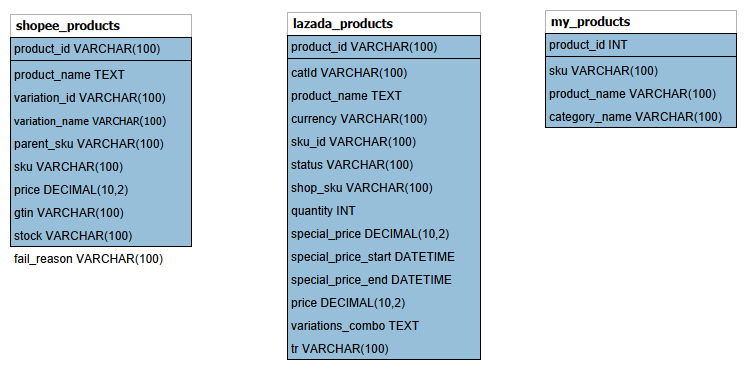
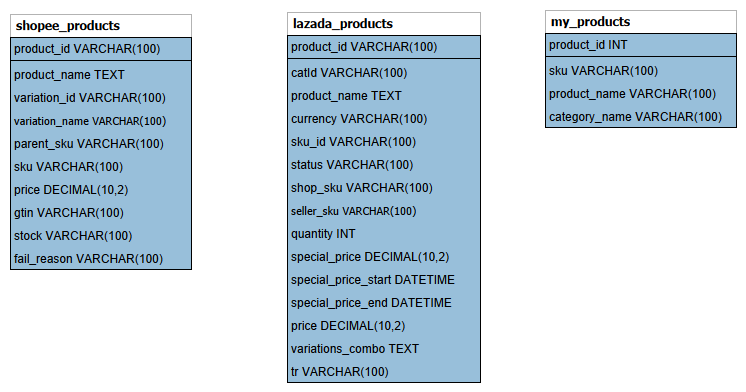
[FIX]: Importing of Lazada Seller SKU

Changed region(s): [[0.37, 0.0298, 0.6475, 0.9837], [0.0, 0.0298, 0.2775, 0.7154], [0.7091, 0.0, 0.9866, 0.3577]]

diff --git a/src/modules/csv/public/csv.js b/src/modules/csv/public/csv.js
@@ -41,18 +41,19 @@
             fields: {
                 product_id: ["product id", "productid", "itemid", "item id"],
                 catId: ["catid", "category id", "cat id"],
-                product_name: ["product name", "item name", "name"],
-                currency: ["currency"],
-                sku_id: ["sellersku", "seller sku", "sku id"],
+                product_name: ["product name"],
+                currency: ["currencyCode", "currency"],
+                sku_id: ["sku.skuId" , "sku id"],
                 status: ["status"],
                 shop_sku: ["shopsku", "shop sku"],
+                seller_sku: ["sellersku", "seller sku"],
                 quantity: ["quantity", "stock", "qty"],
-                special_price: ["special price"],
+                special_price: ["special price", "SpecialPrice"],
                 special_price_start: ["special price start"],
                 special_price_end: ["special price end"],
                 price: ["price"],
-                variations_combo: ["variation", "variations", "variations combo"],
-                tr: ["tr"]
+                variations_combo: ["Variations Combo"],
+                tr: ["tr", "tr(s-wb-product@md5key)"]
             },
             required: ["product_id"]
         },

diff --git a/src/modules/csv/csv_controller.js b/src/modules/csv/csv_controller.js
@@ -142,6 +142,7 @@ exports.importLazadaProducts = async (req, res) => {
                 sku_id: toNullable(r.sku_id),
                 status: toNullable(r.status),
                 shop_sku: toNullable(r.shop_sku),
+                seller_sku: toNullable(r.seller_sku),
                 quantity: toInt(r.quantity),
                 special_price: toDecimal(r.special_price),
                 special_price_start: toDatetime(r.special_price_start),
@@ -161,13 +162,13 @@ exports.importLazadaProducts = async (req, res) => {
 
         const values = cleanRows.map((r) => [
             r.product_id, r.catId, r.product_name, r.currency, r.sku_id, r.status,
-            r.shop_sku, r.quantity, r.special_price, r.special_price_start,
+            r.shop_sku, r.seller_sku, r.quantity, r.special_price, r.special_price_start,
             r.special_price_end, r.price, r.variations_combo, r.tr
         ]);
 
         await db.query(
             `INSERT INTO lazada_products
-                (product_id, catId, product_name, currency, sku_id, status, shop_sku,
+                (product_id, catId, product_name, currency, sku_id, status, shop_sku, seller_sku,
                  quantity, special_price, special_price_start, special_price_end,
                  price, variations_combo, tr)
              VALUES ?
@@ -178,6 +179,7 @@ exports.importLazadaProducts = async (req, res) => {
                 sku_id = VALUES(sku_id),
                 status = VALUES(status),
                 shop_sku = VALUES(shop_sku),
+                seller_sku = VALUES(seller_sku),
                 quantity = VALUES(quantity),
                 special_price = VALUES(special_price),
                 special_price_start = VALUES(special_price_start),

diff --git a/README.md b/README.md
@@ -1,5 +1,13 @@
 # SKU Checker - Shopee and Lazada
 
+## How to use:
+
+### 1. Importing Shopee Products
+- Remove top 2 rows from generated Excel sheet before importing
+
+### 2. Importing Product List
+- Use the following fields: sku, product name, category name
+
 ## Getting Started
 
 ### Dependencies